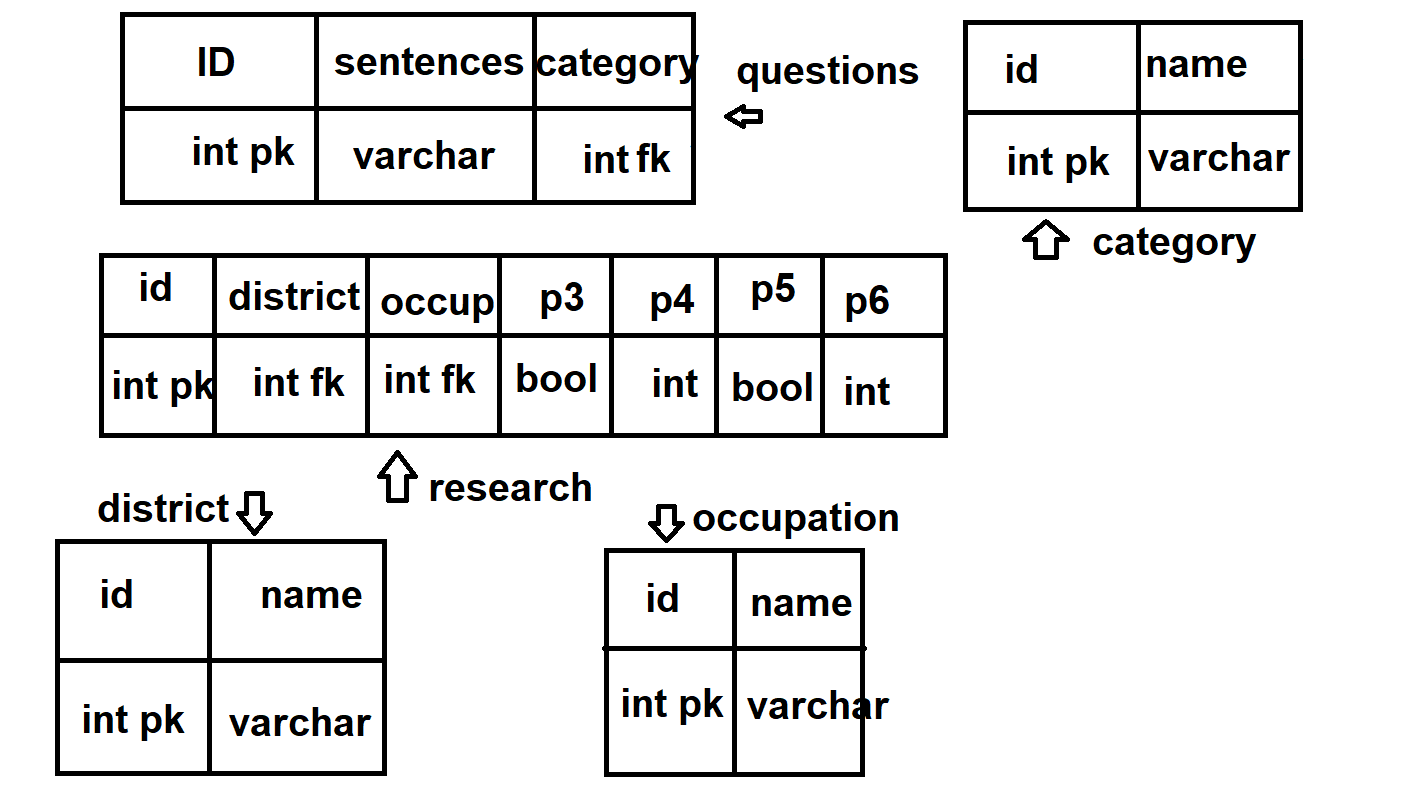
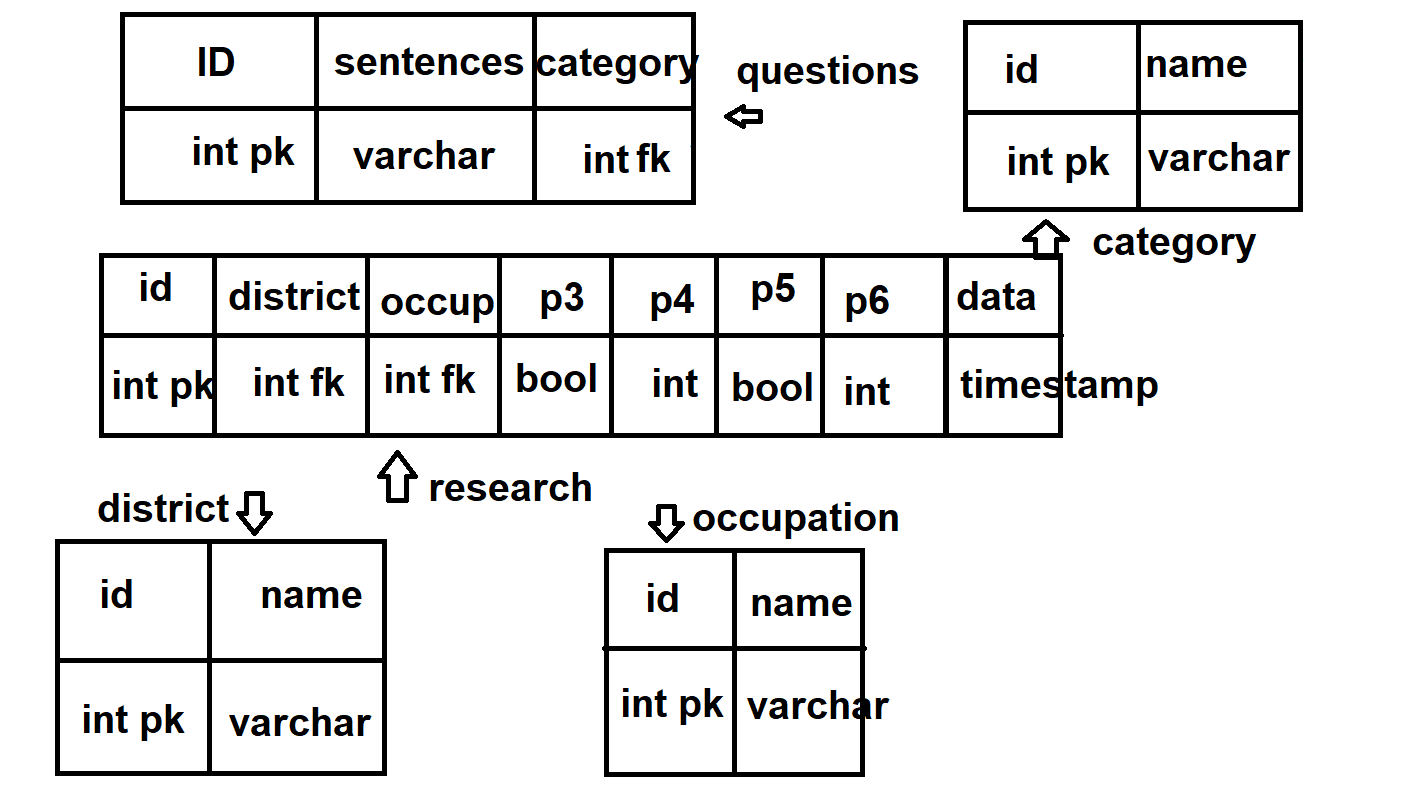
I added a timestamp column in research table

Changed region(s): [[0.6724, 0.3109, 0.8252, 0.5597]]

diff --git a/src/main/java/br/com/covid19/model/Research.java b/src/main/java/br/com/covid19/model/Research.java
@@ -1,6 +1,10 @@
 package br.com.covid19.model;
 
 import javax.persistence.*;
+import java.lang.reflect.Method;
+import java.sql.Date;
+import java.sql.Timestamp;
+import java.util.HashMap;
 
 @Entity
 public class Research {
@@ -8,16 +12,14 @@ public class Research {
     @Id
     @GeneratedValue(strategy = GenerationType.IDENTITY)
     private Long id;
-
-
+    @Column(nullable = false)
+    private Timestamp research_date;
     @ManyToOne
     @JoinColumn(nullable = false)
     private District p1;
-
     @ManyToOne
     @JoinColumn(nullable = false)
     private Occupation p2;
-
     @Column(nullable = false)
     private Integer p3;
     @Column(nullable = false)
@@ -56,8 +58,9 @@ public class Research {
     public Research() {
     }
 
-    public Research(Long id, District p1, Occupation p2, Integer p3, Boolean p4, Boolean p5, Boolean p6, Boolean p7, Boolean p8, Boolean p9, Boolean p10, Boolean p11, Boolean p12, Boolean p13, Boolean p14, Boolean p15, Boolean p16, Boolean p17, Boolean p18, Boolean p19) {
+    public Research(Long id,Timestamp research_date, District p1, Occupation p2, Integer p3, Boolean p4, Boolean p5, Boolean p6, Boolean p7, Boolean p8, Boolean p9, Boolean p10, Boolean p11, Boolean p12, Boolean p13, Boolean p14, Boolean p15, Boolean p16, Boolean p17, Boolean p18, Boolean p19) {
         this.id = id;
+        this.research_date = research_date;
         this.p1 = p1;
         this.p2 = p2;
         this.p3 = p3;
@@ -77,10 +80,16 @@ public class Research {
         this.p17 = p17;
         this.p18 = p18;
         this.p19 = p19;
+
     }
+    
 
     public Long getId() {
         return id;
+    }
+
+    public Timestamp getResearch_date() {
+        return research_date;
     }
 
     public District getP1() {
